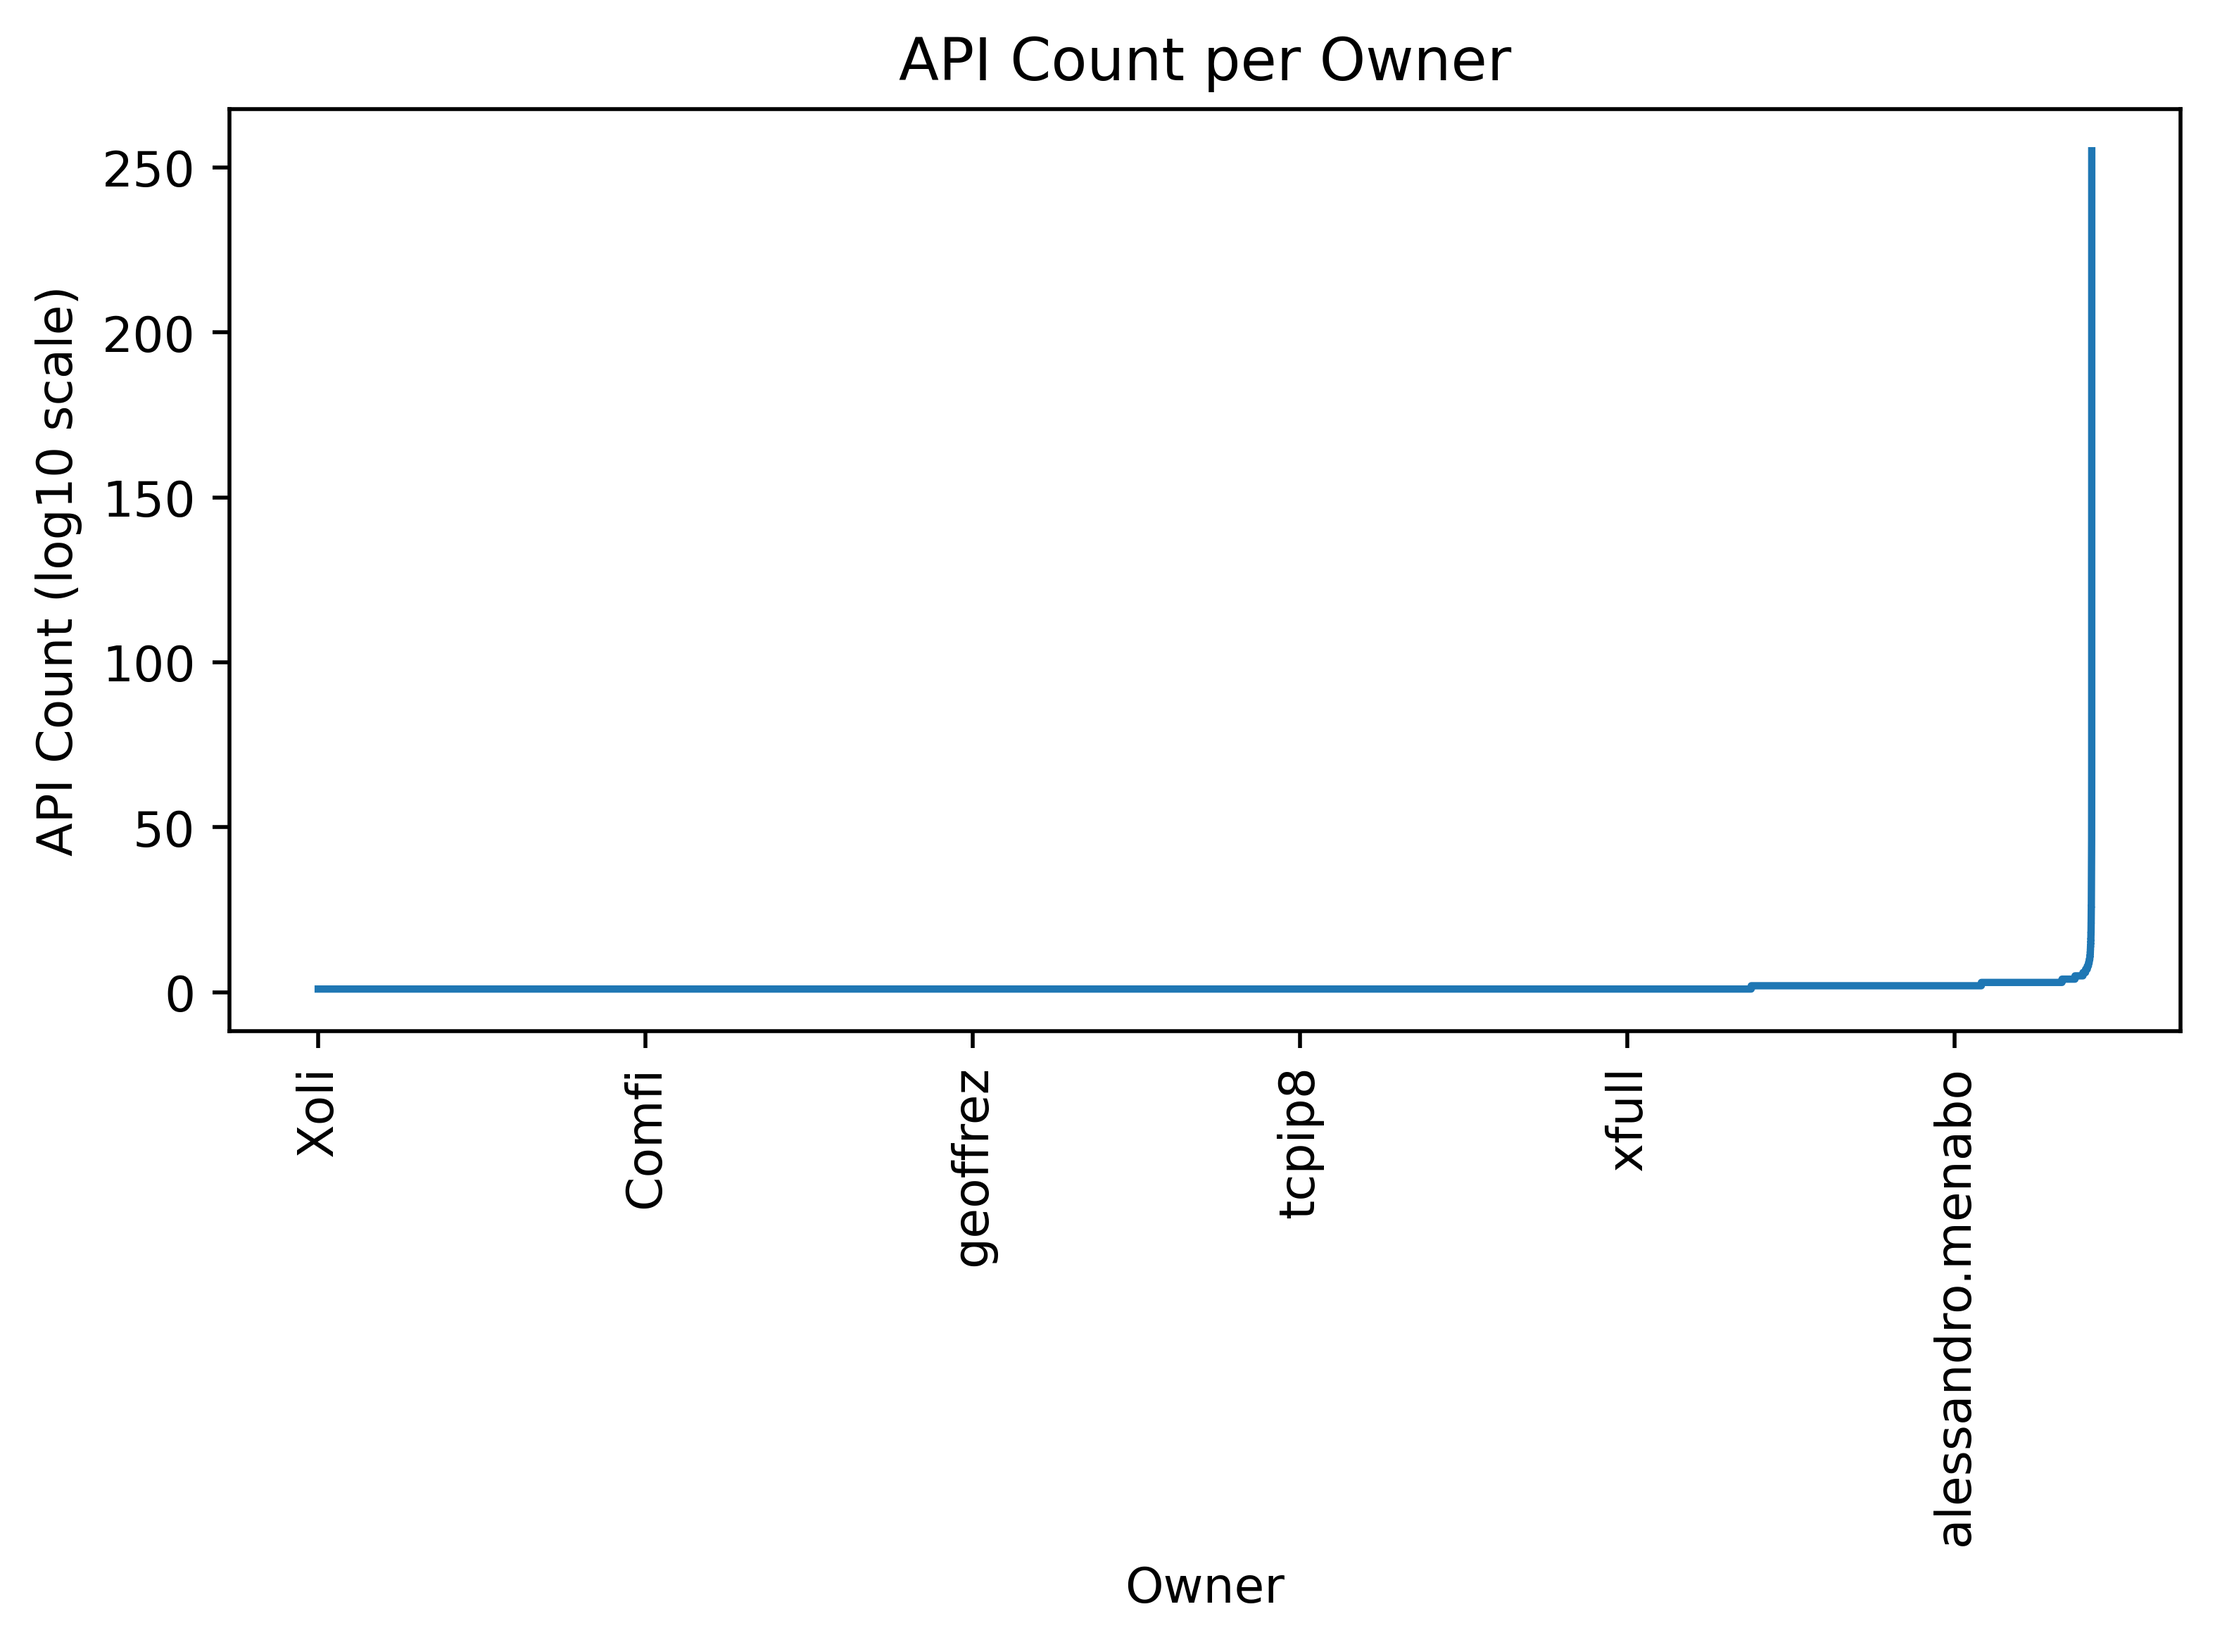
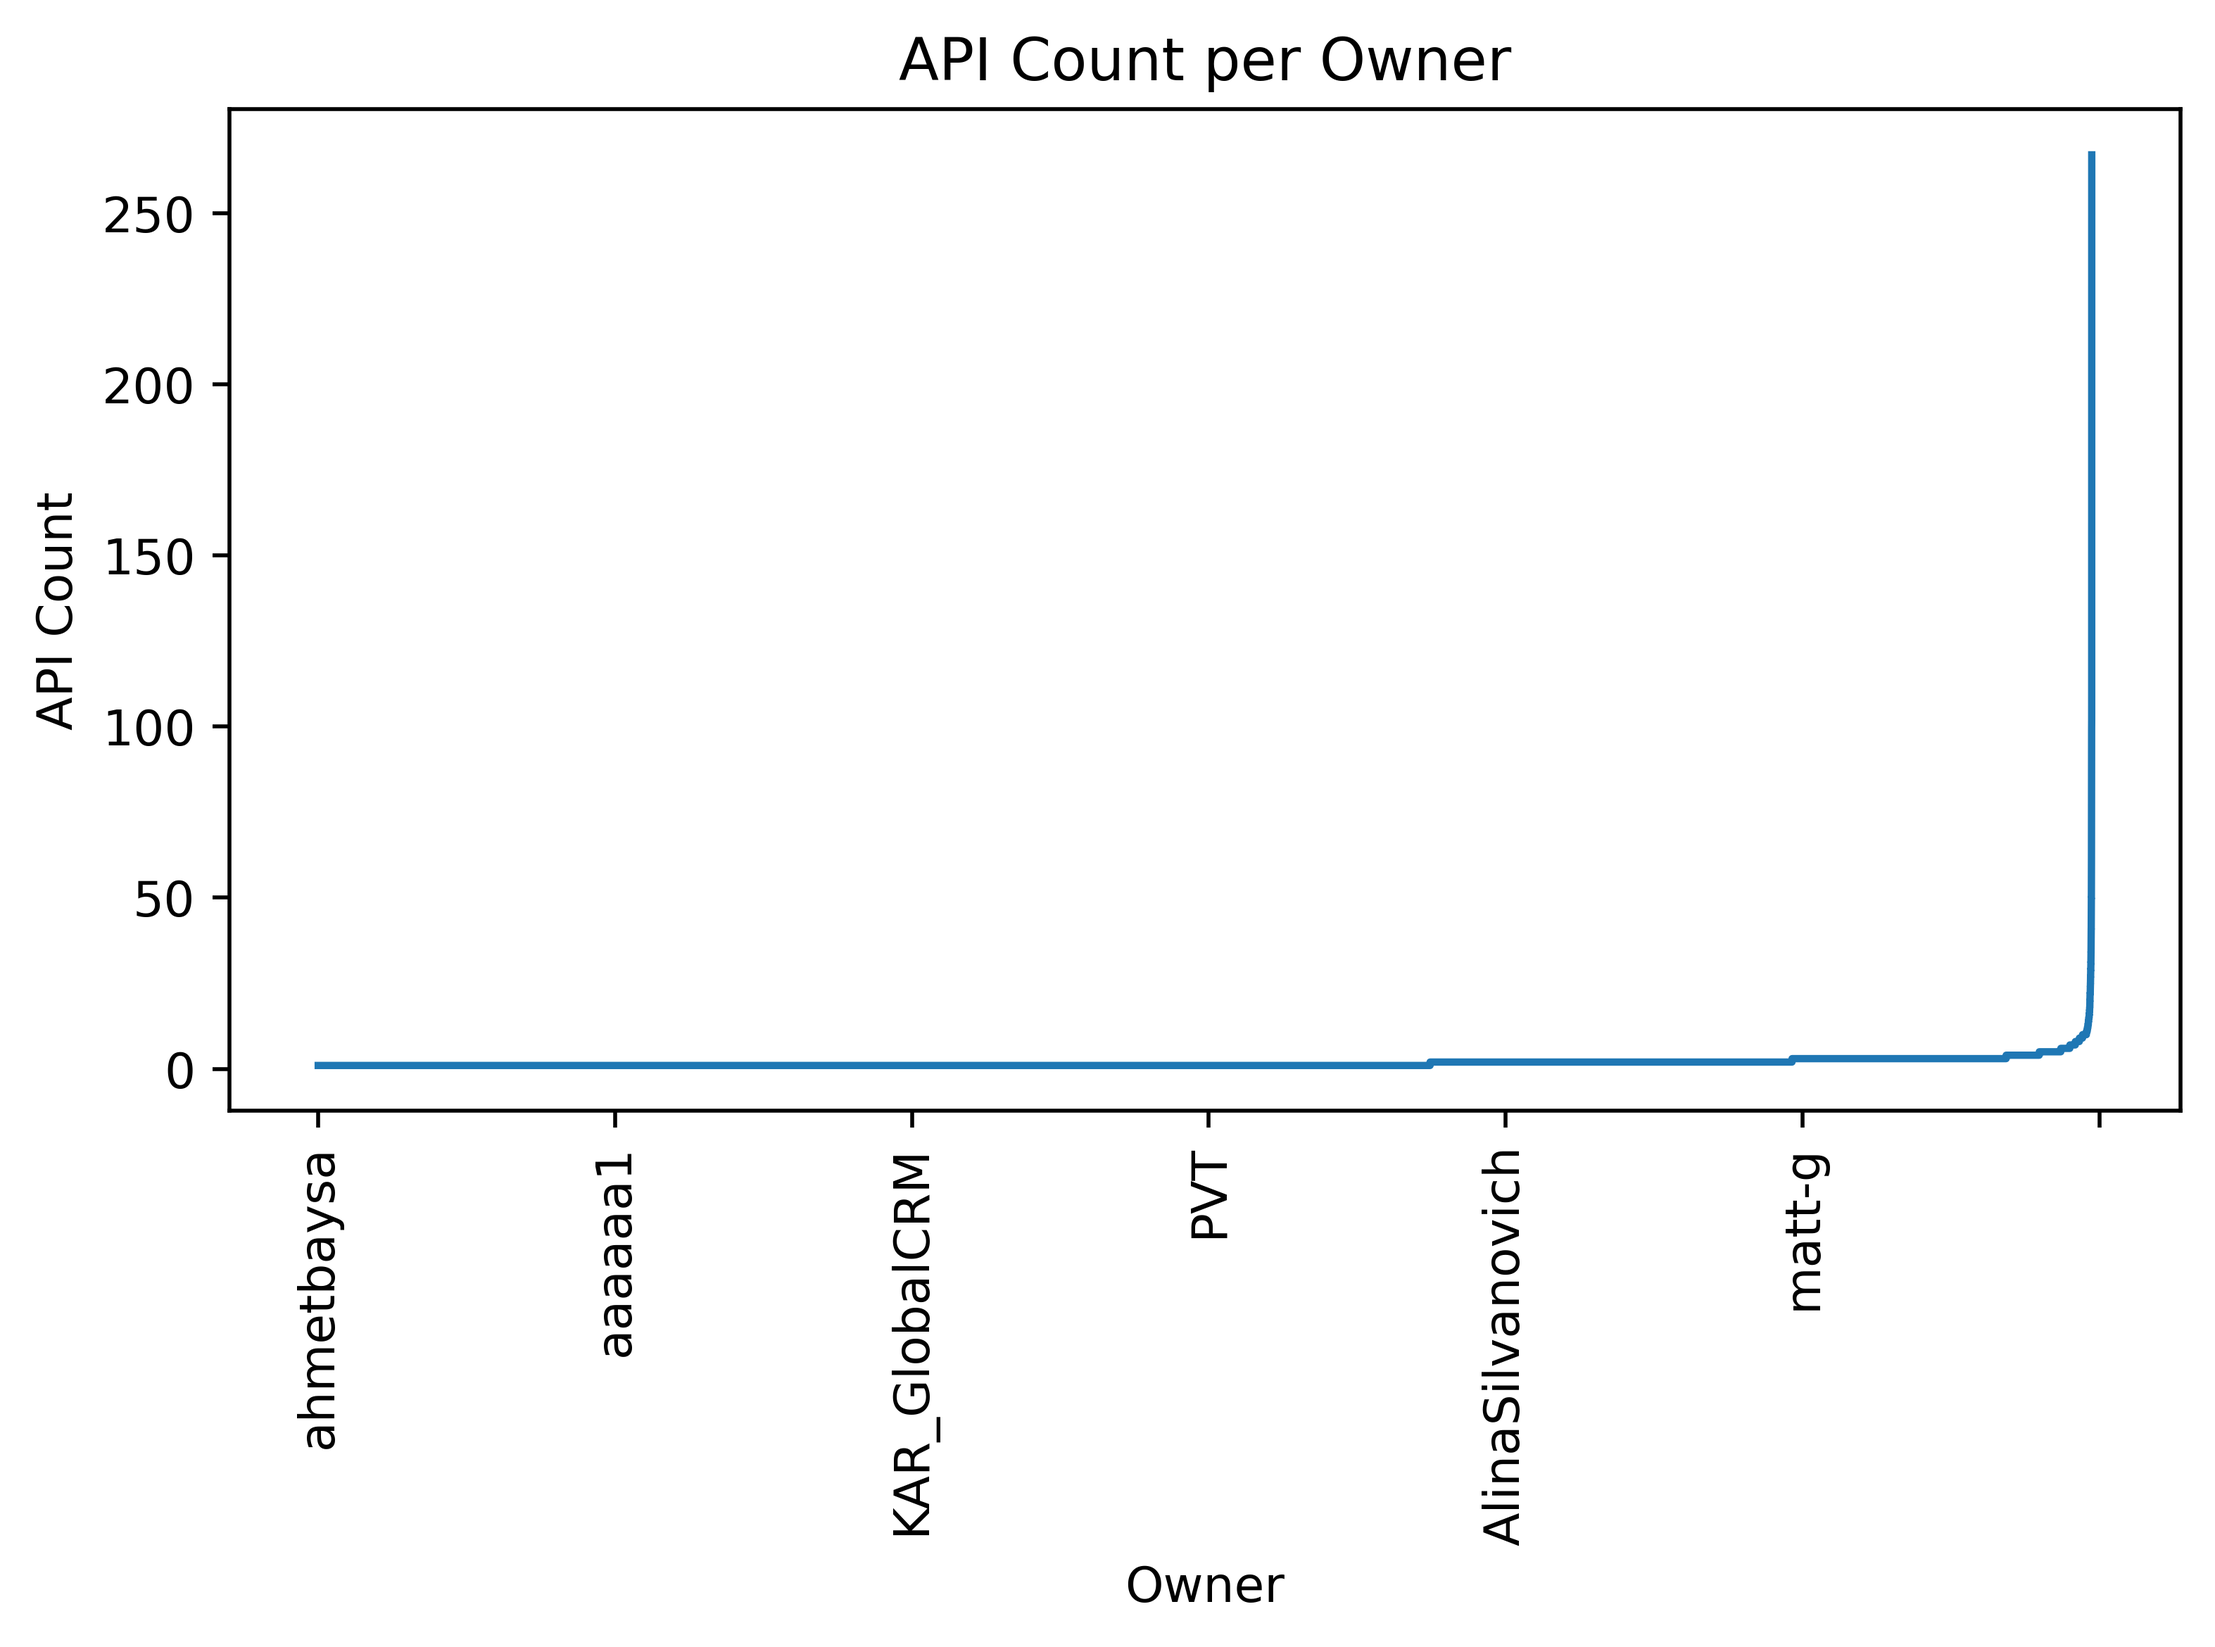
Update scripts

diff --git a/swagger_url_retriever/config/queries.js b/swagger_url_retriever/config/queries.js
@@ -1,4 +1,4 @@
-exports.sort_by = ['CREATED']
+exports.sort_by = ['BEST_MATCH']
 exports.order = ['ASC', "DESC"]
 exports.limit = 100
 exports.pages = 100
@@ -16,5 +16,5 @@ exports.specification = ["openapi-2.0",
     "asyncapi-2.5.0",
     "asyncapi-2.6.0",
 ]
-
 exports.state = ["PUBLISHED", "UNPUBLISHED",]
+exports.query = ["inventory", "project", "oauth2", "flow", "home-iot-api", "service", "application", "rest", "documentation", "access", "code", "password", "management", "data", "openapi", "app", "customer", "services", "integration", "user", "web", "server", "implicit", "backend", "public", "order", "specification", "product", "platform", "gateway", "manager", "kafka", "payment", "account", "system", "streetlights", "customers", "store", "open", "mobile", "partner", "portal", "definition", "search", "core", "cloud", "get", "music", "client", "document"]

diff --git a/swagger_url_retriever/queryGenerator.js b/swagger_url_retriever/queryGenerator.js
@@ -2,7 +2,7 @@ const ipc = require('node-ipc').default;
 const {ipcConfigClient, workerPoolConfig} = require("./config/config");
 const {generateQuery, pushQueryInDatabase} = require("./utils/queryManager");
 const {connectUsingMongoose, closeConnection} = require("./db/mongoConnector");
-const {sort_by, order, specification, state} = require("./config/queries");
+const {sort_by, order, specification, state, query} = require("./config/queries");
 const tqdm = require("tqdm");
 const {getOwnersNames} = require("./db/databaseManager");
 
@@ -25,6 +25,7 @@ let genQueriesAndPush = async () => {
         queries = await generateQuery(dbClient, {
             sort: sort_by,
             order: order,
+            query: query,
             // specification: specification,
             // state: state,
             // owner: namesArray

diff --git a/swaggerStats/most_common_words.py b/swaggerStats/most_common_words.py
@@ -1,0 +1,84 @@
+import numpy as np
+import pandas as pd
+from matplotlib import pyplot as plt
+from pymongo import MongoClient
+
+client = MongoClient('mongodb://localhost:27017/?directConnection=true')
+db = client['swagger']
+
+apis = db['apis']
+
+all_apis = apis.find({}, {'_name': 1}).limit(100000)
+
+# Create an empty array
+name_array = []
+
+# Iterate over the result
+for document in all_apis:
+    name = document['_name']
+    name_array.append(name)
+
+
+print("Number of APIs: " + str(len(name_array)))
+
+# split the name into words and store them in a list
+name_array = [name.split() for name in name_array]
+
+# flatten the list
+name_array = [word for name in name_array for word in name]
+
+# convert all words to lowercase
+name_array = [word.lower() for word in name_array]
+
+# remove all words with less than 3 characters
+name_array = [word for word in name_array if len(word) > 2]
+
+# remove stopwords
+from nltk.corpus import stopwords
+
+stop_words = stopwords.words('english')
+
+name_array = [word for word in name_array if word not in stop_words]
+
+# remove punctuation
+import string
+name_array = [word for word in name_array if word not in string.punctuation]
+
+# remove "api" word "simple" word
+name_array = [word for word in name_array if word not in ['api', 'simple', "petstore", "sample", "defaulttitle", "your-api", "apis", "test", "swagger", "example", "demo"]]
+
+# find the most common words
+from collections import Counter
+
+# Create a Counter object
+counter = Counter(name_array)
+
+# Get the 10 most common words
+most_common = counter.most_common(50)
+
+# Print the 10 most common words
+print(most_common)
+
+# plot distribution of most common words
+# Create a dataframe from the most common words
+df = pd.DataFrame(most_common, columns=['Word', 'Frequency'])
+
+# Set the word as the index
+df.set_index('Word', inplace=True)
+
+# Plot the dataframe
+df.plot.bar()
+
+# save most_common words to file without frequency
+most_common = [word[0] for word in most_common]
+with open('most_common_words.txt', 'w') as f:
+    for item in most_common:
+        f.write("%s\n" % item)
+
+# dump most_common words to json file without frequency
+import json
+with open('most_common_words.json', 'w') as f:
+    json.dump(most_common, f)
+
+
+plt.show()

diff --git a/swaggerStats/most_successful_parameter.py b/swaggerStats/most_successful_parameter.py
@@ -43,6 +43,28 @@ for d in data:
     rows.append({"Query": proxyQuery, "Overlap Query": overlapping_query, "Overlap Count": d["overlaps"] / normalization_factor})
 df = pd.DataFrame(rows)
 
+# plot gaussian distribution of the overlap count
+# calculate 3 sigma rule
+mean = df["Overlap Count"].mean()
+std = df["Overlap Count"].std()
+print(mean)
+print(std)
+print(mean - 3 * std)
+print(mean + 3 * std)
+
+df["Overlap Count"].plot.kde()
+plt.axvline(mean, color='k', linestyle='dashed', linewidth=1)
+plt.axvline(mean - 3 * std, color='r', linestyle='dashed', linewidth=1)
+plt.axvline(mean + 3 * std, color='g', linestyle='dashed', linewidth=1)
+plt.xlabel("Overlap Count")
+plt.ylabel("Density")
+plt.title("Density Plot of Overlap Count")
+plt.xlim(-5, 30)
+plt.show()
+
+# remove overlap count less than +3 sigma
+df = df[df["Overlap Count"] > mean + 3 * std]
+
 # Create a pivot table and plot the heatmap
 pivot_table = df.pivot_table(index="Overlap Query", columns="Query", values="Overlap Count", aggfunc=np.sum, fill_value=0)
 # # Sort the pivot table based on the maximum values in each row

diff --git a/swaggerStats/dist_apis_owners.py b/swaggerStats/dist_apis_owners.py
@@ -67,7 +67,7 @@ plt.legend()
 plt.xlim(-10, 10)
 
 # save the plot as a png file
-# plt.savefig('gaussian_api_count_no_owners_.png', dpi=500, bbox_inches='tight')
+plt.savefig('gaussian_api_count_owners.png', dpi=500, bbox_inches='tight')
 
 plt.show()
 
@@ -76,12 +76,12 @@ plt.figure(figsize=(25, 8))
 df.plot(kind='line', legend=None)
 plt.xticks(rotation=90)
 plt.xlabel('Owner')
-plt.ylabel('API Count (log10 scale)')
+plt.ylabel('API Count')
 plt.title('API Count per Owner')
 
 # make the plot fit the window
 plt.tight_layout()
 
 # save the plot as a png file
-# plt.savefig('api_count_per_owner.png', dpi=500, bbox_inches='tight')
-# plt.show()
+plt.savefig('api_count_per_owner.png', dpi=500, bbox_inches='tight')
+plt.show()

diff --git a/swaggerStats/number_api_per_query_page.py b/swaggerStats/number_api_per_query_page.py
@@ -28,7 +28,14 @@ counts = [result["count"] for result in results]
 plt.hist(counts, bins=50)
 plt.xlabel("Number of API Results")
 plt.ylabel("Number of Queries")
-plt.title("Distribution of API Results per Query")
+plt.title("Distribution of API Results per Query (without grouping pages)")
+
+# Add the maximum value for each bin as text
+# bin_counts, bin_edges, _ = plt.hist(counts, bins=50)
+# for i in range(len(bin_counts)):
+#     if bin_counts[i] != 0:
+#         plt.text(bin_edges[i], bin_counts[i], int(bin_counts[i]), ha='center', va='bottom')
+
 
 plt.savefig('number_api_per_query_pages.png', dpi=500, bbox_inches='tight')
 plt.show()

diff --git a/swaggerStats/api_over_time_plot.py b/swaggerStats/api_over_time_plot.py
@@ -35,5 +35,6 @@ ax2.set_ylabel("Number of URLs of APIs")
 ax2.set_xlabel("Timestamp of the data")
 plt.xticks(rotation=90)
 plt.tight_layout()
+# plt.title("Number of APIs and URLs processed over time")
 plt.savefig("apis_over_time.png")
 plt.show()
